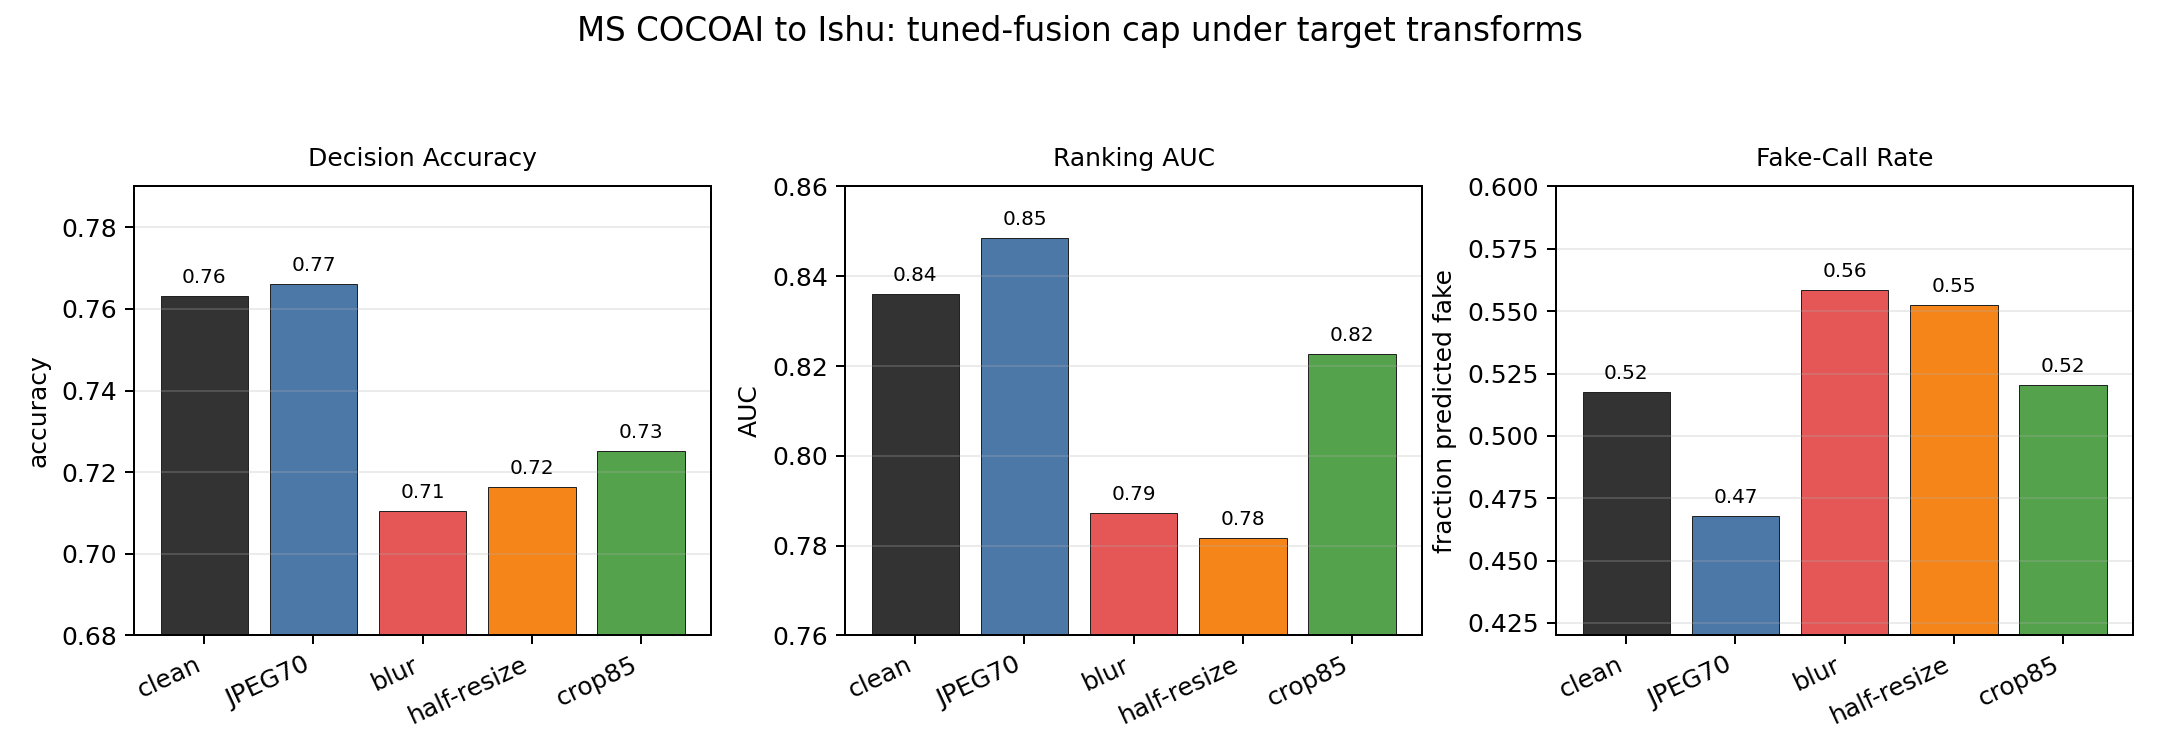
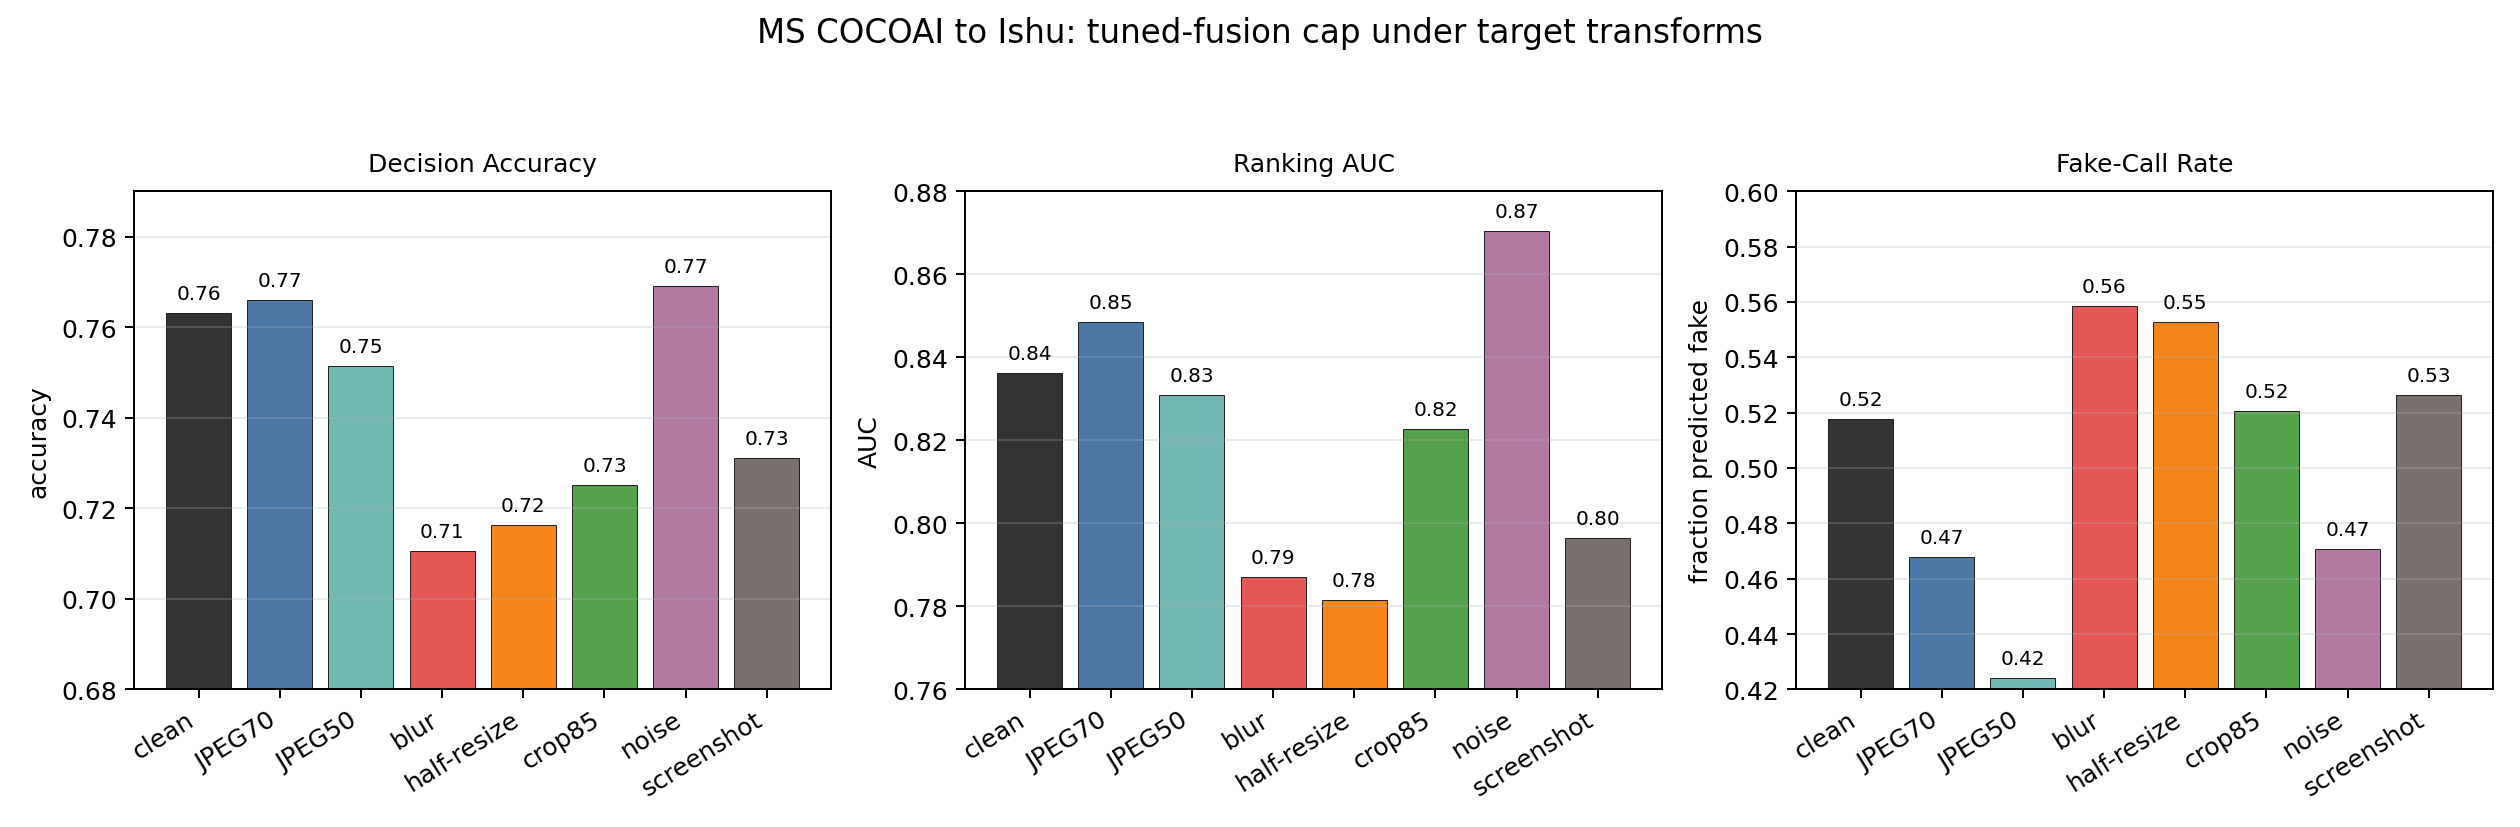
Add harder reverse tuned fusion robustness variants

Changed region(s): [[0.0, 0.1825, 0.9926, 0.9735], [0.2481, 0.0, 0.7444, 0.0608], [0.0, 0.2738, 0.062, 0.3347]]

diff --git a/src/forensic_compare/transforms.py b/src/forensic_compare/transforms.py
@@ -1,10 +1,20 @@
 from __future__ import annotations
 
+import hashlib
 from io import BytesIO
 
+import numpy as np
 from PIL import Image, ImageFilter
 
-ROBUSTNESS_VARIANTS = ("jpeg70", "blur1", "resize_half", "crop85")
+ROBUSTNESS_VARIANTS = (
+    "jpeg70",
+    "jpeg50",
+    "blur1",
+    "resize_half",
+    "crop85",
+    "noise3",
+    "screenshot",
+)
 
 
 def jpeg_roundtrip(image: Image.Image, quality: int) -> Image.Image:
@@ -31,14 +41,36 @@ def resize_half_roundtrip(image: Image.Image) -> Image.Image:
     return down.resize((width, height), Image.Resampling.BICUBIC)
 
 
+def deterministic_gaussian_noise(image: Image.Image, sigma: float) -> Image.Image:
+    seed = int.from_bytes(hashlib.blake2b(image.tobytes(), digest_size=8).digest(), "little")
+    rng = np.random.default_rng(seed)
+    array = np.asarray(image).astype(np.float32)
+    noisy = array + rng.normal(loc=0.0, scale=sigma, size=array.shape)
+    return Image.fromarray(np.clip(noisy, 0, 255).astype(np.uint8), mode="RGB")
+
+
+def screenshot_roundtrip(image: Image.Image) -> Image.Image:
+    width, height = image.size
+    down_size = (max(1, int(round(width * 0.75))), max(1, int(round(height * 0.75))))
+    down = image.resize(down_size, Image.Resampling.BILINEAR)
+    restored = down.resize((width, height), Image.Resampling.BILINEAR)
+    return jpeg_roundtrip(restored, quality=85)
+
+
 def apply_robustness_variant(image: Image.Image, variant: str) -> Image.Image:
     image = image.convert("RGB")
     if variant == "jpeg70":
         return jpeg_roundtrip(image, quality=70)
+    if variant == "jpeg50":
+        return jpeg_roundtrip(image, quality=50)
     if variant == "blur1":
         return image.filter(ImageFilter.GaussianBlur(radius=1.0))
     if variant == "resize_half":
         return resize_half_roundtrip(image)
     if variant == "crop85":
         return center_crop_resize(image, fraction=0.85)
+    if variant == "noise3":
+        return deterministic_gaussian_noise(image, sigma=3.0)
+    if variant == "screenshot":
+        return screenshot_roundtrip(image)
     raise ValueError(f"Unsupported variant: {variant}")

diff --git a/scripts/build_publication_assets.py b/scripts/build_publication_assets.py
@@ -122,20 +122,35 @@ REVERSE_OPERATING_COLORS = {
     "score_fusion_all6_temp_balanced": "#9E9E9E",
     "score_fusion_all6_c003_source_acc": "#E45756",
 }
-TRANSFORM_ROBUSTNESS_ORDER = ["clean", "jpeg70", "blur1", "resize_half", "crop85"]
+TRANSFORM_ROBUSTNESS_ORDER = [
+    "clean",
+    "jpeg70",
+    "jpeg50",
+    "blur1",
+    "resize_half",
+    "crop85",
+    "noise3",
+    "screenshot",
+]
 TRANSFORM_ROBUSTNESS_LABELS = {
     "clean": "clean",
     "jpeg70": "JPEG70",
+    "jpeg50": "JPEG50",
     "blur1": "blur",
     "resize_half": "half-resize",
     "crop85": "crop85",
+    "noise3": "noise",
+    "screenshot": "screenshot",
 }
 TRANSFORM_ROBUSTNESS_COLORS = {
     "clean": "#333333",
     "jpeg70": "#4C78A8",
+    "jpeg50": "#72B7B2",
     "blur1": "#E45756",
     "resize_half": "#F58518",
     "crop85": "#54A24B",
+    "noise3": "#B279A2",
+    "screenshot": "#79706E",
 }
 
 
@@ -224,9 +239,12 @@ def parse_args() -> argparse.Namespace:
         nargs="*",
         default=[
             "reports/assets/ms_cocoai_to_ishu_tuned_fusion_jpeg70_robustness_summary.csv",
+            "reports/assets/ms_cocoai_to_ishu_tuned_fusion_jpeg50_robustness_summary.csv",
             "reports/assets/ms_cocoai_to_ishu_tuned_fusion_blur1_robustness_summary.csv",
             "reports/assets/ms_cocoai_to_ishu_tuned_fusion_resize_half_robustness_summary.csv",
             "reports/assets/ms_cocoai_to_ishu_tuned_fusion_crop85_robustness_summary.csv",
+            "reports/assets/ms_cocoai_to_ishu_tuned_fusion_noise3_robustness_summary.csv",
+            "reports/assets/ms_cocoai_to_ishu_tuned_fusion_screenshot_robustness_summary.csv",
         ],
     )
     parser.add_argument("--out-dir", default="reports/assets")
@@ -938,10 +956,10 @@ def build_reverse_transform_robustness(
     labels = [TRANSFORM_ROBUSTNESS_LABELS.get(variant, variant) for variant in frame["variant"]]
     colors = [TRANSFORM_ROBUSTNESS_COLORS.get(variant, "#777777") for variant in frame["variant"]]
     x = np.arange(len(frame))
-    fig, axes = plt.subplots(1, 3, figsize=(12.0, 4.2), dpi=dpi)
+    fig, axes = plt.subplots(1, 3, figsize=(14.0, 4.6), dpi=dpi)
     for ax, column, title, ylabel, ylim in [
         (axes[0], "accuracy", "Decision Accuracy", "accuracy", (0.68, 0.79)),
-        (axes[1], "auc", "Ranking AUC", "AUC", (0.76, 0.86)),
+        (axes[1], "auc", "Ranking AUC", "AUC", (0.76, 0.88)),
         (axes[2], "predicted_fake_rate", "Fake-Call Rate", "fraction predicted fake", (0.42, 0.60)),
     ]:
         values = frame[column].astype(float)
@@ -949,7 +967,7 @@ def build_reverse_transform_robustness(
         ax.set_title(title, fontsize=10, pad=8)
         ax.set_ylabel(ylabel)
         ax.set_xticks(x)
-        ax.set_xticklabels(labels, rotation=25, ha="right")
+        ax.set_xticklabels(labels, rotation=32, ha="right")
         ax.set_ylim(*ylim)
         ax.grid(axis="y", alpha=0.25)
         _annotate_bars(ax, values, offset=(ylim[1] - ylim[0]) * 0.02)

diff --git a/scripts/build_claim_evidence_matrix.py b/scripts/build_claim_evidence_matrix.py
@@ -40,6 +40,9 @@ CLAIMS = [
             "ms_to_ishu_tuned_fusion_blur1",
             "ms_to_ishu_tuned_fusion_resize_half",
             "ms_to_ishu_tuned_fusion_crop85",
+            "ms_to_ishu_tuned_fusion_jpeg50",
+            "ms_to_ishu_tuned_fusion_noise3",
+            "ms_to_ishu_tuned_fusion_screenshot",
         ],
         "primary_artifact": "reports/assets/publication_core_results.md",
         "risk_or_caveat": "Do not frame this as state of the art; frame it as a source-heldout diagnostic benchmark.",
@@ -107,12 +110,16 @@ CLAIMS = [
             "ms_to_ishu_tuned_fusion_blur1",
             "ms_to_ishu_tuned_fusion_resize_half",
             "ms_to_ishu_tuned_fusion_crop85",
+            "ms_to_ishu_tuned_fusion_jpeg50",
+            "ms_to_ishu_tuned_fusion_noise3",
+            "ms_to_ishu_tuned_fusion_screenshot",
         ],
         "primary_artifact": "reports/assets/publication_reverse_fusion_tradeoff.png",
         "risk_or_caveat": "Current score fusion can suppress the best branch and can inherit source-threshold bias.",
         "next_action": (
             "The source fake-rate constraint sweep improves target accuracy and fake-call bias; "
-            "JPEG70 and crop are relatively stable, while blur and half-resolution resize expose the next robustness gap."
+            "JPEG70, JPEG50, noise, and crop are relatively stable, while blur, resize, and screenshot-style "
+            "roundtrips expose the next robustness gap."
         ),
     },
     {
@@ -135,11 +142,15 @@ CLAIMS = [
             "ms_to_ishu_tuned_fusion_blur1",
             "ms_to_ishu_tuned_fusion_resize_half",
             "ms_to_ishu_tuned_fusion_crop85",
+            "ms_to_ishu_tuned_fusion_jpeg50",
+            "ms_to_ishu_tuned_fusion_noise3",
+            "ms_to_ishu_tuned_fusion_screenshot",
         ],
         "primary_artifact": "reports/assets/publication_reverse_operating_points.png",
         "risk_or_caveat": "The capped source-threshold result is an operating point, not a learned general solution.",
         "next_action": (
-            "Add JPEG50, screenshot/noise, and native-resolution tile checks before calling the cap frontier contest-ready."
+            "Add native-resolution tiling, stronger social-media crops, and larger source splits before calling "
+            "the cap frontier contest-ready."
         ),
     },
     {

diff --git a/tests/test_photometric.py b/tests/test_photometric.py
@@ -85,6 +85,18 @@ def test_shared_robustness_variants_match_script_wrapper() -> None:
         assert shared.mode == wrapped.mode == "RGB"
 
 
+def test_noise_robustness_variant_is_deterministic() -> None:
+    image = Image.fromarray(
+        np.random.default_rng(6).integers(0, 255, size=(32, 32, 3), dtype=np.uint8)
+    )
+
+    first = np.asarray(apply_robustness_variant(image, "noise3"))
+    second = np.asarray(apply_robustness_variant(image, "noise3"))
+
+    assert np.array_equal(first, second)
+    assert not np.array_equal(first, np.asarray(image.convert("RGB")))
+
+
 def test_feature_extraction_can_augment_training_rows(tmp_path: Path) -> None:
     image = np.random.default_rng(4).integers(0, 255, size=(32, 32, 3), dtype=np.uint8)
     path = tmp_path / "image.png"

diff --git a/scripts/build_publication_tables.py b/scripts/build_publication_tables.py
@@ -131,6 +131,9 @@ def parse_args() -> argparse.Namespace:
             "reports/assets/ms_cocoai_to_ishu_tuned_fusion_blur1_robustness_summary.csv",
             "reports/assets/ms_cocoai_to_ishu_tuned_fusion_resize_half_robustness_summary.csv",
             "reports/assets/ms_cocoai_to_ishu_tuned_fusion_crop85_robustness_summary.csv",
+            "reports/assets/ms_cocoai_to_ishu_tuned_fusion_jpeg50_robustness_summary.csv",
+            "reports/assets/ms_cocoai_to_ishu_tuned_fusion_noise3_robustness_summary.csv",
+            "reports/assets/ms_cocoai_to_ishu_tuned_fusion_screenshot_robustness_summary.csv",
         ],
         help="Additional tuned-fusion target-transform robustness summary CSVs.",
     )

diff --git a/tests/test_claim_evidence_matrix.py b/tests/test_claim_evidence_matrix.py
@@ -39,6 +39,9 @@ def test_claim_evidence_matrix_validates_and_writes_artifacts(tmp_path: Path) ->
         "ms_to_ishu_tuned_fusion_blur1",
         "ms_to_ishu_tuned_fusion_resize_half",
         "ms_to_ishu_tuned_fusion_crop85",
+        "ms_to_ishu_tuned_fusion_jpeg50",
+        "ms_to_ishu_tuned_fusion_noise3",
+        "ms_to_ishu_tuned_fusion_screenshot",
     ]
     pd.DataFrame(
         {

diff --git a/reports/ms_cocoai_to_ishu_tuned_fusion_jpeg50_robustness_2026_06_13.md b/reports/ms_cocoai_to_ishu_tuned_fusion_jpeg50_robustness_2026_06_13.md
@@ -1,0 +1,31 @@
+# MS COCOAI to Ishu Tuned-Fusion jpeg50 Robustness
+
+This evaluates the already-selected reverse tuned-fusion operating point on `jpeg50`-transformed Ishu target splits. The fusion configuration and source threshold are selected from clean MS source scores only; `jpeg50` labels are used only for final evaluation.
+
+## Robustness Summary
+
+| variant | variant_policy | n_seeds | target_accuracy_mean | target_roc_auc_mean | target_brier_score_mean | target_expected_calibration_error_mean | target_predicted_positive_rate_mean | source_predicted_positive_rate_mean |
+| --- | --- | --- | --- | --- | --- | --- | --- | --- |
+| jpeg50 | cap_0p4 | 3 | 0.7515 | 0.8309 | 0.2486 | 0.2517 | 0.4240 | 0.4000 |
+
+## Per-Seed Detail
+
+| variant | seed | fusion_c | dropout_config | threshold | target_accuracy | target_roc_auc | target_predicted_positive_rate |
+| --- | --- | --- | --- | --- | --- | --- | --- |
+| jpeg50 | 7 | 0.3000 | mean0p35x8 | 0.9862 | 0.7544 | 0.8424 | 0.4561 |
+| jpeg50 | 17 | 0.0300 | mean0p35x8 | 0.9541 | 0.7193 | 0.7950 | 0.4386 |
+| jpeg50 | 29 | 0.3000 | none | 0.9397 | 0.7807 | 0.8553 | 0.3772 |
+
+## Clean Comparator
+
+The clean `cap_0p4` tuned-fusion result was 0.7632 accuracy / 0.8361 AUC with a 0.5175 target fake-call rate.
+Under `jpeg50`, the same source-selected policy reaches 0.7515 accuracy / 0.8309 AUC with a 0.4240 target fake-call rate.
+This is a bounded robustness check for the tuned-fusion cap frontier. Interpret it together with the clean-target result and the other transformed target variants before treating the 0.40 cap as robust rather than clean-target optimized.
+
+## Rebuild
+
+Prerequisite branch prediction folders are expected under `runs\ms_cocoai_to_ishu_jpeg50_robustness/seed*/`. They are produced by evaluating the saved MS-trained `combined_v3`, ResNet-18, physics-guided, ConvNeXt, CLIP, and DINOv2 branches on the seed-specific Ishu `jpeg50` folders.
+
+```powershell
+.\.venv\Scripts\python.exe scripts\evaluate_reverse_tuned_fusion_robustness.py --variant jpeg50
+```

diff --git a/reports/ms_cocoai_to_ishu_tuned_fusion_noise3_robustness_2026_06_13.md b/reports/ms_cocoai_to_ishu_tuned_fusion_noise3_robustness_2026_06_13.md
@@ -1,0 +1,31 @@
+# MS COCOAI to Ishu Tuned-Fusion noise3 Robustness
+
+This evaluates the already-selected reverse tuned-fusion operating point on `noise3`-transformed Ishu target splits. The fusion configuration and source threshold are selected from clean MS source scores only; `noise3` labels are used only for final evaluation.
+
+## Robustness Summary
+
+| variant | variant_policy | n_seeds | target_accuracy_mean | target_roc_auc_mean | target_brier_score_mean | target_expected_calibration_error_mean | target_predicted_positive_rate_mean | source_predicted_positive_rate_mean |
+| --- | --- | --- | --- | --- | --- | --- | --- | --- |
+| noise3 | cap_0p4 | 3 | 0.7690 | 0.8704 | 0.2281 | 0.2412 | 0.4708 | 0.4000 |
+
+## Per-Seed Detail
+
+| variant | seed | fusion_c | dropout_config | threshold | target_accuracy | target_roc_auc | target_predicted_positive_rate |
+| --- | --- | --- | --- | --- | --- | --- | --- |
+| noise3 | 7 | 0.3000 | mean0p35x8 | 0.9862 | 0.7632 | 0.8845 | 0.5175 |
+| noise3 | 17 | 0.0300 | mean0p35x8 | 0.9541 | 0.7281 | 0.8279 | 0.4825 |
+| noise3 | 29 | 0.3000 | none | 0.9397 | 0.8158 | 0.8987 | 0.4123 |
+
+## Clean Comparator
+
+The clean `cap_0p4` tuned-fusion result was 0.7632 accuracy / 0.8361 AUC with a 0.5175 target fake-call rate.
+Under `noise3`, the same source-selected policy reaches 0.7690 accuracy / 0.8704 AUC with a 0.4708 target fake-call rate.
+This is a bounded robustness check for the tuned-fusion cap frontier. Interpret it together with the clean-target result and the other transformed target variants before treating the 0.40 cap as robust rather than clean-target optimized.
+
+## Rebuild
+
+Prerequisite branch prediction folders are expected under `runs\ms_cocoai_to_ishu_noise3_robustness/seed*/`. They are produced by evaluating the saved MS-trained `combined_v3`, ResNet-18, physics-guided, ConvNeXt, CLIP, and DINOv2 branches on the seed-specific Ishu `noise3` folders.
+
+```powershell
+.\.venv\Scripts\python.exe scripts\evaluate_reverse_tuned_fusion_robustness.py --variant noise3
+```

diff --git a/reports/ms_cocoai_to_ishu_tuned_fusion_screenshot_robustness_2026_06_13.md b/reports/ms_cocoai_to_ishu_tuned_fusion_screenshot_robustness_2026_06_13.md
@@ -1,0 +1,31 @@
+# MS COCOAI to Ishu Tuned-Fusion screenshot Robustness
+
+This evaluates the already-selected reverse tuned-fusion operating point on `screenshot`-transformed Ishu target splits. The fusion configuration and source threshold are selected from clean MS source scores only; `screenshot` labels are used only for final evaluation.
+
+## Robustness Summary
+
+| variant | variant_policy | n_seeds | target_accuracy_mean | target_roc_auc_mean | target_brier_score_mean | target_expected_calibration_error_mean | target_predicted_positive_rate_mean | source_predicted_positive_rate_mean |
+| --- | --- | --- | --- | --- | --- | --- | --- | --- |
+| screenshot | cap_0p4 | 3 | 0.7310 | 0.7965 | 0.3188 | 0.3392 | 0.5263 | 0.4000 |
+
+## Per-Seed Detail
+
+| variant | seed | fusion_c | dropout_config | threshold | target_accuracy | target_roc_auc | target_predicted_positive_rate |
+| --- | --- | --- | --- | --- | --- | --- | --- |
+| screenshot | 7 | 0.3000 | mean0p35x8 | 0.9862 | 0.7281 | 0.8023 | 0.5526 |
+| screenshot | 17 | 0.0300 | mean0p35x8 | 0.9541 | 0.7018 | 0.7445 | 0.5263 |
+| screenshot | 29 | 0.3000 | none | 0.9397 | 0.7632 | 0.8427 | 0.5000 |
+
+## Clean Comparator
+
+The clean `cap_0p4` tuned-fusion result was 0.7632 accuracy / 0.8361 AUC with a 0.5175 target fake-call rate.
+Under `screenshot`, the same source-selected policy reaches 0.7310 accuracy / 0.7965 AUC with a 0.5263 target fake-call rate.
+This is a bounded robustness check for the tuned-fusion cap frontier. Interpret it together with the clean-target result and the other transformed target variants before treating the 0.40 cap as robust rather than clean-target optimized.
+
+## Rebuild
+
+Prerequisite branch prediction folders are expected under `runs\ms_cocoai_to_ishu_screenshot_robustness/seed*/`. They are produced by evaluating the saved MS-trained `combined_v3`, ResNet-18, physics-guided, ConvNeXt, CLIP, and DINOv2 branches on the seed-specific Ishu `screenshot` folders.
+
+```powershell
+.\.venv\Scripts\python.exe scripts\evaluate_reverse_tuned_fusion_robustness.py --variant screenshot
+```

diff --git a/reports/submission_readiness_2026_06_13.md b/reports/submission_readiness_2026_06_13.md
@@ -36,9 +36,12 @@ Core numbers to lead with:
 | source-heldout tuned fusion on MS COCOAI -> Ishu | 0.7339 accuracy / 0.8341 AUC / 0.2748 Brier | first training-side constrained utility win |
 | tuned fusion cap sweep on MS COCOAI -> Ishu | 0.7632 accuracy / 0.8361 AUC / 0.5175 fake-call rate | best reverse SCP-Fusion operating point so far |
 | tuned fusion cap_0p4 under JPEG70 | 0.7661 accuracy / 0.8485 AUC / 0.4678 fake-call rate | first robustness check for the reverse cap frontier |
+| tuned fusion cap_0p4 under JPEG50 | 0.7515 accuracy / 0.8309 AUC / 0.4240 fake-call rate | stronger recompression only mildly degrades the clean cap frontier |
 | tuned fusion cap_0p4 under blur1 | 0.7105 accuracy / 0.7872 AUC / 0.5585 fake-call rate | blur is the clearest current transform weakness |
 | tuned fusion cap_0p4 under resize_half | 0.7164 accuracy / 0.7816 AUC / 0.5526 fake-call rate | half-resolution resize similarly hurts ranking and calibration |
 | tuned fusion cap_0p4 under crop85 | 0.7251 accuracy / 0.8227 AUC / 0.5205 fake-call rate | crop is weaker than clean but less damaging than blur/resize |
+| tuned fusion cap_0p4 under noise3 | 0.7690 accuracy / 0.8704 AUC / 0.4708 fake-call rate | small sensor-like noise is not a current weakness |
+| tuned fusion cap_0p4 under screenshot | 0.7310 accuracy / 0.7965 AUC / 0.5263 fake-call rate | screenshot-style resize plus recompression is a realistic stressor |
 | physics-guided ResNet on MS COCOAI -> Ishu | 0.6871 default accuracy / 0.6813 source-threshold accuracy | best default-threshold single-model operating point and ECE anchor |
 | CLIP source-heldout triage, strict 5% budget | 0.4747 coverage / 0.9261 decided-case accuracy | best current forensic triage operating point |
 | DINOv2-enhanced source-calibrated fusion | 0.6127 accuracy / 0.3062 Brier / 0.2938 ECE | best calibrated fusion-family operating point before CLIP |
@@ -108,7 +111,7 @@ The results show that ranking, probability calibration, and binary decision qual
 
 Priority order:
 
-1. Extend tuned-fusion robustness to harder in-the-wild perturbations. JPEG70 and crop85 are comparatively stable, but blur1 and resize_half expose a real transform weakness; the next gap is JPEG50, screenshot/noise, native-resolution tiling, or a larger source split before calling the 0.40 reverse frontier contest-ready.
+1. Extend tuned-fusion robustness to native-resolution and stronger in-the-wild perturbations. JPEG70, JPEG50, noise3, and crop85 are comparatively stable, but blur1, resize_half, and screenshot-style roundtrips expose real transform weaknesses; the next gap is native-resolution tiling, stronger social-media crops/recompression, or a larger source split before calling the 0.40 reverse frontier contest-ready.
 2. Run `combined_v4` full repeated-seed transfer and decide whether it belongs in the main method or stays an ablation.
 3. Add another qualitative grid from a second seed or reverse transfer.
 4. Convert the DFRWS poster draft into a one-page visual artifact after the next experiment.
@@ -118,7 +121,7 @@ Priority order:
 The best next technical experiment is **source-heldout utility-aware reverse fusion**:
 
 - use the checked-in `--threshold-strategy source_utility` implementation and the model-selection selector as fixed operating-point evaluators;
-- extend the 0.40 source-cap tuned fusion robustness check from basic blur/resize/crop/JPEG70 to JPEG50, screenshot/noise, native-resolution tiling, or a larger source split;
+- extend the 0.40 source-cap tuned fusion robustness check from JPEG/blur/resize/crop/noise/screenshot to native-resolution tiling, stronger social-media crops, or a larger source split;
 - combine the branch-dropout AUC gain with the strong-regularization Brier/ECE gain;
 - preserve the current reverse suite as the fixed comparison table.
 

diff --git a/reports/assets/claim_evidence_matrix.md b/reports/assets/claim_evidence_matrix.md
@@ -4,10 +4,10 @@ Generated by `scripts/build_claim_evidence_matrix.py` from `reports/assets/publi
 
 | claim_id | claim | submission_use | status | evidence_finding_ids | evidence_summary | primary_artifact | risk_or_caveat | next_action |
 | --- | --- | --- | --- | --- | --- | --- | --- | --- |
-| source_shift_splits_metrics | Same-domain detector performance is not enough for AI-image forensics; ranking, calibration, and default decisions diverge under source shift. | DFRWS poster lead; WIFS/DFF introduction and first results table. | ready | ishu_same_combined_v3,ishu_same_resnet18,ishu_to_ms_resnet18,ishu_to_ms_scp_fusion_v0,ms_to_ishu_branch_dropout_auc,ms_to_ishu_source_cap_accuracy,ms_to_ishu_source_holdout_tuned_fusion,ms_to_ishu_tuned_fusion_constraint_sweep_best,ms_to_ishu_tuned_fusion_jpeg70,ms_to_ishu_tuned_fusion_blur1,ms_to_ishu_tuned_fusion_resize_half,ms_to_ishu_tuned_fusion_crop85 | ishu_same_combined_v3 (combined_v3: acc=0.8246, AUC=0.8942); ishu_same_resnet18 (ResNet-18: acc=0.8246, AUC=0.8927); ishu_to_ms_resnet18 (ResNet-18: acc=0.5800, AUC=0.6488, Brier=0.3549, ECE=0.3353, fake-rate=0.2453); ishu_to_ms_scp_fusion_v0 (SCP-Fusion v0: acc=0.5910, AUC=0.7282, Brier=0.3190, ECE=0.3087, fake-rate=0.1383); ms_to_ishu_branch_dropout_auc (Reverse all-branch dropout fusion: acc=0.6520, AUC=0.8406, Brier=0.3057, ECE=0.3275, fake-rate=0.8158); ms_to_ishu_source_cap_accuracy (Reverse source-threshold capped fusion: acc=0.7222, AUC=0.8291, Brier=0.2188, ECE=0.2060, fake-rate=0.6228); ms_to_ishu_source_holdout_tuned_fusion (Reverse source-heldout tuned fusion: acc=0.7339, AUC=0.8341, Brier=0.2748, ECE=0.2954, fake-rate=0.6813); ms_to_ishu_tuned_fusion_constraint_sweep_best (Reverse tuned-fusion constraint sweep best: acc=0.7632, AUC=0.8361, Brier=0.2851, ECE=0.3042, fake-rate=0.5175); ms_to_ishu_tuned_fusion_jpeg70 (Reverse tuned-fusion JPEG70 robustness: acc=0.7661, AUC=0.8485, Brier=0.2599, ECE=0.2635, fake-rate=0.4678); ms_to_ishu_tuned_fusion_blur1 (Reverse tuned-fusion target-transform robustness (blur1): acc=0.7105, AUC=0.7872, Brier=0.3280, ECE=0.3450, fake-rate=0.5585); ms_to_ishu_tuned_fusion_resize_half (Reverse tuned-fusion target-transform robustness (resize_half): acc=0.7164, AUC=0.7816, Brier=0.3249, ECE=0.3410, fake-rate=0.5526); ms_to_ishu_tuned_fusion_crop85 (Reverse tuned-fusion target-transform robustness (crop85): acc=0.7251, AUC=0.8227, Brier=0.2952, ECE=0.3187, fake-rate=0.5205) | reports/assets/publication_core_results.md | Do not frame this as state of the art; frame it as a source-heldout diagnostic benchmark. | Keep source-heldout tables in the main paper and use same-domain results only as context. |
+| source_shift_splits_metrics | Same-domain detector performance is not enough for AI-image forensics; ranking, calibration, and default decisions diverge under source shift. | DFRWS poster lead; WIFS/DFF introduction and first results table. | ready | ishu_same_combined_v3,ishu_same_resnet18,ishu_to_ms_resnet18,ishu_to_ms_scp_fusion_v0,ms_to_ishu_branch_dropout_auc,ms_to_ishu_source_cap_accuracy,ms_to_ishu_source_holdout_tuned_fusion,ms_to_ishu_tuned_fusion_constraint_sweep_best,ms_to_ishu_tuned_fusion_jpeg70,ms_to_ishu_tuned_fusion_blur1,ms_to_ishu_tuned_fusion_resize_half,ms_to_ishu_tuned_fusion_crop85,ms_to_ishu_tuned_fusion_jpeg50,ms_to_ishu_tuned_fusion_noise3,ms_to_ishu_tuned_fusion_screenshot | ishu_same_combined_v3 (combined_v3: acc=0.8246, AUC=0.8942); ishu_same_resnet18 (ResNet-18: acc=0.8246, AUC=0.8927); ishu_to_ms_resnet18 (ResNet-18: acc=0.5800, AUC=0.6488, Brier=0.3549, ECE=0.3353, fake-rate=0.2453); ishu_to_ms_scp_fusion_v0 (SCP-Fusion v0: acc=0.5910, AUC=0.7282, Brier=0.3190, ECE=0.3087, fake-rate=0.1383); ms_to_ishu_branch_dropout_auc (Reverse all-branch dropout fusion: acc=0.6520, AUC=0.8406, Brier=0.3057, ECE=0.3275, fake-rate=0.8158); ms_to_ishu_source_cap_accuracy (Reverse source-threshold capped fusion: acc=0.7222, AUC=0.8291, Brier=0.2188, ECE=0.2060, fake-rate=0.6228); ms_to_ishu_source_holdout_tuned_fusion (Reverse source-heldout tuned fusion: acc=0.7339, AUC=0.8341, Brier=0.2748, ECE=0.2954, fake-rate=0.6813); ms_to_ishu_tuned_fusion_constraint_sweep_best (Reverse tuned-fusion constraint sweep best: acc=0.7632, AUC=0.8361, Brier=0.2851, ECE=0.3042, fake-rate=0.5175); ms_to_ishu_tuned_fusion_jpeg70 (Reverse tuned-fusion JPEG70 robustness: acc=0.7661, AUC=0.8485, Brier=0.2599, ECE=0.2635, fake-rate=0.4678); ms_to_ishu_tuned_fusion_blur1 (Reverse tuned-fusion target-transform robustness (blur1): acc=0.7105, AUC=0.7872, Brier=0.3280, ECE=0.3450, fake-rate=0.5585); ms_to_ishu_tuned_fusion_resize_half (Reverse tuned-fusion target-transform robustness (resize_half): acc=0.7164, AUC=0.7816, Brier=0.3249, ECE=0.3410, fake-rate=0.5526); ms_to_ishu_tuned_fusion_crop85 (Reverse tuned-fusion target-transform robustness (crop85): acc=0.7251, AUC=0.8227, Brier=0.2952, ECE=0.3187, fake-rate=0.5205); ms_to_ishu_tuned_fusion_jpeg50 (Reverse tuned-fusion target-transform robustness (jpeg50): acc=0.7515, AUC=0.8309, Brier=0.2486, ECE=0.2517, fake-rate=0.4240); ms_to_ishu_tuned_fusion_noise3 (Reverse tuned-fusion target-transform robustness (noise3): acc=0.7690, AUC=0.8704, Brier=0.2281, ECE=0.2412, fake-rate=0.4708); ms_to_ishu_tuned_fusion_screenshot (Reverse tuned-fusion target-transform robustness (screenshot): acc=0.7310, AUC=0.7965, Brier=0.3188, ECE=0.3392, fake-rate=0.5263) | reports/assets/publication_core_results.md | Do not frame this as state of the art; frame it as a source-heldout diagnostic benchmark. | Keep source-heldout tables in the main paper and use same-domain results only as context. |
 | physics_guided_branch_helps | Physics-guided ResNet fusion improves over vanilla ResNet and combined_v3 on Ishu same-domain and gives a useful reverse-transfer calibration anchor. | DFRWS methods/results; WIFS/DFF ablation and interpretability section. | ready_with_caveat | ishu_same_combined_v3,ishu_same_resnet18,ishu_same_physics_guided,ishu_to_ms_resnet18,ishu_to_ms_physics_guided,ms_to_ishu_physics_guided | ishu_same_combined_v3 (combined_v3: acc=0.8246, AUC=0.8942); ishu_same_resnet18 (ResNet-18: acc=0.8246, AUC=0.8927); ishu_same_physics_guided (Physics-guided ResNet-18 + combined_v3: acc=0.8450, AUC=0.9177); ishu_to_ms_resnet18 (ResNet-18: acc=0.5800, AUC=0.6488, Brier=0.3549, ECE=0.3353, fake-rate=0.2453); ishu_to_ms_physics_guided (Physics-guided ResNet-18 + combined_v3: acc=0.6060, AUC=0.6637, Brier=0.3367, ECE=0.3094, fake-rate=0.2707); ms_to_ishu_physics_guided (Physics-guided ResNet-18 + combined_v3: acc=0.6871, AUC=0.7420, Brier=0.2436, ECE=0.1902, fake-rate=0.5292) | reports/physics_guided_vs_resnet_2026_06_12.md | This is a single-image physical/signal proxy, not true multi-light photometric stereo; vanilla ResNet still wins some in-domain MS COCOAI checks. | Keep the claim comparative and avoid implying a universal neural upgrade. |
 | clip_transfer_frontier | Frozen CLIP ViT-B/32 is the strongest standalone transfer-ranking and high-confidence triage branch in the current benchmark. | DFRWS headline result; DFF foundation-baseline result; WIFS compact comparison. | ready | ishu_to_ms_clip_standalone,ishu_to_ms_triage5_clip_standalone,ms_to_ishu_clip_vit_b_32 | ishu_to_ms_clip_standalone (Frozen CLIP ViT-B/32: acc=0.6363, AUC=0.8641, Brier=0.3146, ECE=0.3326, fake-rate=0.1630); ishu_to_ms_triage5_clip_standalone (Frozen CLIP ViT-B/32: coverage=0.4747, decided-acc=0.9261); ms_to_ishu_clip_vit_b_32 (Frozen CLIP ViT-B/32: acc=0.6228, AUC=0.8243, Brier=0.3317, ECE=0.3566, fake-rate=0.8626) | reports/assets/publication_score_fusion_clip_frontier.png | CLIP has strong ranking but reverse-transfer default thresholds still over-call generated images. | Use CLIP as the foundation baseline to beat; do not bury it inside fusion-only comparisons. |
-| scp_fusion_is_diagnostic | SCP-Fusion is currently most defensible as a diagnostic fusion protocol: it combines physical, neural, and foundation signals, but score-level fusion does not always beat the best standalone branch. | DFF method framing; WIFS cautionary fusion result; DFRWS reproducibility panel. | ready_with_caveat | ishu_to_ms_scp_fusion_v0,ishu_to_ms_scp_fusion_all_foundation,ishu_to_ms_clip_standalone,ms_to_ishu_score_fusion_all6_temp_balanced,ms_to_ishu_branch_dropout_auc,ms_to_ishu_source_utility_unconstrained,ms_to_ishu_source_holdout_mean_utility_unconstrained,ms_to_ishu_source_holdout_tuned_fusion,ms_to_ishu_tuned_fusion_constraint_sweep_best,ms_to_ishu_tuned_fusion_jpeg70,ms_to_ishu_tuned_fusion_blur1,ms_to_ishu_tuned_fusion_resize_half,ms_to_ishu_tuned_fusion_crop85 | ishu_to_ms_scp_fusion_v0 (SCP-Fusion v0: acc=0.5910, AUC=0.7282, Brier=0.3190, ECE=0.3087, fake-rate=0.1383); ishu_to_ms_scp_fusion_all_foundation (SCP-Fusion + CLIP + DINOv2: acc=0.6163, AUC=0.7995, Brier=0.3118, ECE=0.3263, fake-rate=0.1323); ishu_to_ms_clip_standalone (Frozen CLIP ViT-B/32: acc=0.6363, AUC=0.8641, Brier=0.3146, ECE=0.3326, fake-rate=0.1630); ms_to_ishu_score_fusion_all6_temp_balanced (Reverse all-branch fusion + balanced temperature: acc=0.6579, AUC=0.8285, Brier=0.3067, ECE=0.3304, fake-rate=0.8099); ms_to_ishu_branch_dropout_auc (Reverse all-branch dropout fusion: acc=0.6520, AUC=0.8406, Brier=0.3057, ECE=0.3275, fake-rate=0.8158); ms_to_ishu_source_utility_unconstrained (Reverse source-utility model selection: acc=0.6520, AUC=0.8275, Brier=0.2944, ECE=0.3181, fake-rate=0.8216); ms_to_ishu_source_holdout_mean_utility_unconstrained (Reverse source-heldout utility selection: acc=0.6520, AUC=0.8275, Brier=0.2944, ECE=0.3181, fake-rate=0.8216); ms_to_ishu_source_holdout_tuned_fusion (Reverse source-heldout tuned fusion: acc=0.7339, AUC=0.8341, Brier=0.2748, ECE=0.2954, fake-rate=0.6813); ms_to_ishu_tuned_fusion_constraint_sweep_best (Reverse tuned-fusion constraint sweep best: acc=0.7632, AUC=0.8361, Brier=0.2851, ECE=0.3042, fake-rate=0.5175); ms_to_ishu_tuned_fusion_jpeg70 (Reverse tuned-fusion JPEG70 robustness: acc=0.7661, AUC=0.8485, Brier=0.2599, ECE=0.2635, fake-rate=0.4678); ms_to_ishu_tuned_fusion_blur1 (Reverse tuned-fusion target-transform robustness (blur1): acc=0.7105, AUC=0.7872, Brier=0.3280, ECE=0.3450, fake-rate=0.5585); ms_to_ishu_tuned_fusion_resize_half (Reverse tuned-fusion target-transform robustness (resize_half): acc=0.7164, AUC=0.7816, Brier=0.3249, ECE=0.3410, fake-rate=0.5526); ms_to_ishu_tuned_fusion_crop85 (Reverse tuned-fusion target-transform robustness (crop85): acc=0.7251, AUC=0.8227, Brier=0.2952, ECE=0.3187, fake-rate=0.5205) | reports/assets/publication_reverse_fusion_tradeoff.png | Current score fusion can suppress the best branch and can inherit source-threshold bias. | The source fake-rate constraint sweep improves target accuracy and fake-call bias; JPEG70 and crop are relatively stable, while blur and half-resolution resize expose the next robustness gap. |
-| source_thresholding_improves_decisions | Source-aware operating-point selection can turn strong but biased reverse-transfer ranking into better binary decisions. | DFRWS operational triage panel; WIFS/DFF calibration and utility section. | ready_with_caveat | ms_to_ishu_branch_dropout_auc,ms_to_ishu_score_fusion_all6_temp_balanced,ms_to_ishu_source_cap_accuracy,ms_to_ishu_source_utility_cap_0p48,ms_to_ishu_source_holdout_mean_utility_cap_0p48,ms_to_ishu_source_holdout_tuned_fusion,ms_to_ishu_tuned_fusion_constraint_sweep_best,ms_to_ishu_tuned_fusion_jpeg70,ms_to_ishu_tuned_fusion_blur1,ms_to_ishu_tuned_fusion_resize_half,ms_to_ishu_tuned_fusion_crop85 | ms_to_ishu_branch_dropout_auc (Reverse all-branch dropout fusion: acc=0.6520, AUC=0.8406, Brier=0.3057, ECE=0.3275, fake-rate=0.8158); ms_to_ishu_score_fusion_all6_temp_balanced (Reverse all-branch fusion + balanced temperature: acc=0.6579, AUC=0.8285, Brier=0.3067, ECE=0.3304, fake-rate=0.8099); ms_to_ishu_source_cap_accuracy (Reverse source-threshold capped fusion: acc=0.7222, AUC=0.8291, Brier=0.2188, ECE=0.2060, fake-rate=0.6228); ms_to_ishu_source_utility_cap_0p48 (Reverse capped source-utility model selection: acc=0.7193, AUC=0.8291, Brier=0.2188, ECE=0.2060, fake-rate=0.6199); ms_to_ishu_source_holdout_mean_utility_cap_0p48 (Reverse capped source-heldout utility selection: acc=0.7193, AUC=0.8291, Brier=0.2188, ECE=0.2060, fake-rate=0.6199); ms_to_ishu_source_holdout_tuned_fusion (Reverse source-heldout tuned fusion: acc=0.7339, AUC=0.8341, Brier=0.2748, ECE=0.2954, fake-rate=0.6813); ms_to_ishu_tuned_fusion_constraint_sweep_best (Reverse tuned-fusion constraint sweep best: acc=0.7632, AUC=0.8361, Brier=0.2851, ECE=0.3042, fake-rate=0.5175); ms_to_ishu_tuned_fusion_jpeg70 (Reverse tuned-fusion JPEG70 robustness: acc=0.7661, AUC=0.8485, Brier=0.2599, ECE=0.2635, fake-rate=0.4678); ms_to_ishu_tuned_fusion_blur1 (Reverse tuned-fusion target-transform robustness (blur1): acc=0.7105, AUC=0.7872, Brier=0.3280, ECE=0.3450, fake-rate=0.5585); ms_to_ishu_tuned_fusion_resize_half (Reverse tuned-fusion target-transform robustness (resize_half): acc=0.7164, AUC=0.7816, Brier=0.3249, ECE=0.3410, fake-rate=0.5526); ms_to_ishu_tuned_fusion_crop85 (Reverse tuned-fusion target-transform robustness (crop85): acc=0.7251, AUC=0.8227, Brier=0.2952, ECE=0.3187, fake-rate=0.5205) | reports/assets/publication_reverse_operating_points.png | The capped source-threshold result is an operating point, not a learned general solution. | Add JPEG50, screenshot/noise, and native-resolution tile checks before calling the cap frontier contest-ready. |
+| scp_fusion_is_diagnostic | SCP-Fusion is currently most defensible as a diagnostic fusion protocol: it combines physical, neural, and foundation signals, but score-level fusion does not always beat the best standalone branch. | DFF method framing; WIFS cautionary fusion result; DFRWS reproducibility panel. | ready_with_caveat | ishu_to_ms_scp_fusion_v0,ishu_to_ms_scp_fusion_all_foundation,ishu_to_ms_clip_standalone,ms_to_ishu_score_fusion_all6_temp_balanced,ms_to_ishu_branch_dropout_auc,ms_to_ishu_source_utility_unconstrained,ms_to_ishu_source_holdout_mean_utility_unconstrained,ms_to_ishu_source_holdout_tuned_fusion,ms_to_ishu_tuned_fusion_constraint_sweep_best,ms_to_ishu_tuned_fusion_jpeg70,ms_to_ishu_tuned_fusion_blur1,ms_to_ishu_tuned_fusion_resize_half,ms_to_ishu_tuned_fusion_crop85,ms_to_ishu_tuned_fusion_jpeg50,ms_to_ishu_tuned_fusion_noise3,ms_to_ishu_tuned_fusion_screenshot | ishu_to_ms_scp_fusion_v0 (SCP-Fusion v0: acc=0.5910, AUC=0.7282, Brier=0.3190, ECE=0.3087, fake-rate=0.1383); ishu_to_ms_scp_fusion_all_foundation (SCP-Fusion + CLIP + DINOv2: acc=0.6163, AUC=0.7995, Brier=0.3118, ECE=0.3263, fake-rate=0.1323); ishu_to_ms_clip_standalone (Frozen CLIP ViT-B/32: acc=0.6363, AUC=0.8641, Brier=0.3146, ECE=0.3326, fake-rate=0.1630); ms_to_ishu_score_fusion_all6_temp_balanced (Reverse all-branch fusion + balanced temperature: acc=0.6579, AUC=0.8285, Brier=0.3067, ECE=0.3304, fake-rate=0.8099); ms_to_ishu_branch_dropout_auc (Reverse all-branch dropout fusion: acc=0.6520, AUC=0.8406, Brier=0.3057, ECE=0.3275, fake-rate=0.8158); ms_to_ishu_source_utility_unconstrained (Reverse source-utility model selection: acc=0.6520, AUC=0.8275, Brier=0.2944, ECE=0.3181, fake-rate=0.8216); ms_to_ishu_source_holdout_mean_utility_unconstrained (Reverse source-heldout utility selection: acc=0.6520, AUC=0.8275, Brier=0.2944, ECE=0.3181, fake-rate=0.8216); ms_to_ishu_source_holdout_tuned_fusion (Reverse source-heldout tuned fusion: acc=0.7339, AUC=0.8341, Brier=0.2748, ECE=0.2954, fake-rate=0.6813); ms_to_ishu_tuned_fusion_constraint_sweep_best (Reverse tuned-fusion constraint sweep best: acc=0.7632, AUC=0.8361, Brier=0.2851, ECE=0.3042, fake-rate=0.5175); ms_to_ishu_tuned_fusion_jpeg70 (Reverse tuned-fusion JPEG70 robustness: acc=0.7661, AUC=0.8485, Brier=0.2599, ECE=0.2635, fake-rate=0.4678); ms_to_ishu_tuned_fusion_blur1 (Reverse tuned-fusion target-transform robustness (blur1): acc=0.7105, AUC=0.7872, Brier=0.3280, ECE=0.3450, fake-rate=0.5585); ms_to_ishu_tuned_fusion_resize_half (Reverse tuned-fusion target-transform robustness (resize_half): acc=0.7164, AUC=0.7816, Brier=0.3249, ECE=0.3410, fake-rate=0.5526); ms_to_ishu_tuned_fusion_crop85 (Reverse tuned-fusion target-transform robustness (crop85): acc=0.7251, AUC=0.8227, Brier=0.2952, ECE=0.3187, fake-rate=0.5205); ms_to_ishu_tuned_fusion_jpeg50 (Reverse tuned-fusion target-transform robustness (jpeg50): acc=0.7515, AUC=0.8309, Brier=0.2486, ECE=0.2517, fake-rate=0.4240); ms_to_ishu_tuned_fusion_noise3 (Reverse tuned-fusion target-transform robustness (noise3): acc=0.7690, AUC=0.8704, Brier=0.2281, ECE=0.2412, fake-rate=0.4708); ms_to_ishu_tuned_fusion_screenshot (Reverse tuned-fusion target-transform robustness (screenshot): acc=0.7310, AUC=0.7965, Brier=0.3188, ECE=0.3392, fake-rate=0.5263) | reports/assets/publication_reverse_fusion_tradeoff.png | Current score fusion can suppress the best branch and can inherit source-threshold bias. | The source fake-rate constraint sweep improves target accuracy and fake-call bias; JPEG70, JPEG50, noise, and crop are relatively stable, while blur, resize, and screenshot-style roundtrips expose the next robustness gap. |
+| source_thresholding_improves_decisions | Source-aware operating-point selection can turn strong but biased reverse-transfer ranking into better binary decisions. | DFRWS operational triage panel; WIFS/DFF calibration and utility section. | ready_with_caveat | ms_to_ishu_branch_dropout_auc,ms_to_ishu_score_fusion_all6_temp_balanced,ms_to_ishu_source_cap_accuracy,ms_to_ishu_source_utility_cap_0p48,ms_to_ishu_source_holdout_mean_utility_cap_0p48,ms_to_ishu_source_holdout_tuned_fusion,ms_to_ishu_tuned_fusion_constraint_sweep_best,ms_to_ishu_tuned_fusion_jpeg70,ms_to_ishu_tuned_fusion_blur1,ms_to_ishu_tuned_fusion_resize_half,ms_to_ishu_tuned_fusion_crop85,ms_to_ishu_tuned_fusion_jpeg50,ms_to_ishu_tuned_fusion_noise3,ms_to_ishu_tuned_fusion_screenshot | ms_to_ishu_branch_dropout_auc (Reverse all-branch dropout fusion: acc=0.6520, AUC=0.8406, Brier=0.3057, ECE=0.3275, fake-rate=0.8158); ms_to_ishu_score_fusion_all6_temp_balanced (Reverse all-branch fusion + balanced temperature: acc=0.6579, AUC=0.8285, Brier=0.3067, ECE=0.3304, fake-rate=0.8099); ms_to_ishu_source_cap_accuracy (Reverse source-threshold capped fusion: acc=0.7222, AUC=0.8291, Brier=0.2188, ECE=0.2060, fake-rate=0.6228); ms_to_ishu_source_utility_cap_0p48 (Reverse capped source-utility model selection: acc=0.7193, AUC=0.8291, Brier=0.2188, ECE=0.2060, fake-rate=0.6199); ms_to_ishu_source_holdout_mean_utility_cap_0p48 (Reverse capped source-heldout utility selection: acc=0.7193, AUC=0.8291, Brier=0.2188, ECE=0.2060, fake-rate=0.6199); ms_to_ishu_source_holdout_tuned_fusion (Reverse source-heldout tuned fusion: acc=0.7339, AUC=0.8341, Brier=0.2748, ECE=0.2954, fake-rate=0.6813); ms_to_ishu_tuned_fusion_constraint_sweep_best (Reverse tuned-fusion constraint sweep best: acc=0.7632, AUC=0.8361, Brier=0.2851, ECE=0.3042, fake-rate=0.5175); ms_to_ishu_tuned_fusion_jpeg70 (Reverse tuned-fusion JPEG70 robustness: acc=0.7661, AUC=0.8485, Brier=0.2599, ECE=0.2635, fake-rate=0.4678); ms_to_ishu_tuned_fusion_blur1 (Reverse tuned-fusion target-transform robustness (blur1): acc=0.7105, AUC=0.7872, Brier=0.3280, ECE=0.3450, fake-rate=0.5585); ms_to_ishu_tuned_fusion_resize_half (Reverse tuned-fusion target-transform robustness (resize_half): acc=0.7164, AUC=0.7816, Brier=0.3249, ECE=0.3410, fake-rate=0.5526); ms_to_ishu_tuned_fusion_crop85 (Reverse tuned-fusion target-transform robustness (crop85): acc=0.7251, AUC=0.8227, Brier=0.2952, ECE=0.3187, fake-rate=0.5205); ms_to_ishu_tuned_fusion_jpeg50 (Reverse tuned-fusion target-transform robustness (jpeg50): acc=0.7515, AUC=0.8309, Brier=0.2486, ECE=0.2517, fake-rate=0.4240); ms_to_ishu_tuned_fusion_noise3 (Reverse tuned-fusion target-transform robustness (noise3): acc=0.7690, AUC=0.8704, Brier=0.2281, ECE=0.2412, fake-rate=0.4708); ms_to_ishu_tuned_fusion_screenshot (Reverse tuned-fusion target-transform robustness (screenshot): acc=0.7310, AUC=0.7965, Brier=0.3188, ECE=0.3392, fake-rate=0.5263) | reports/assets/publication_reverse_operating_points.png | The capped source-threshold result is an operating point, not a learned general solution. | Add native-resolution tiling, stronger social-media crops, and larger source splits before calling the cap frontier contest-ready. |
 | high_confidence_triage_is_viable | Strict source-heldout two-threshold triage can provide high-accuracy decisions on a subset of target images instead of forcing unreliable binary calls everywhere. | DFRWS poster workflow; DFF real-world processing discussion. | ready | ishu_to_ms_triage5_scp_fusion_all_foundation,ishu_to_ms_triage5_clip_standalone | ishu_to_ms_triage5_scp_fusion_all_foundation (SCP-Fusion + CLIP + DINOv2: coverage=0.3029, decided-acc=0.8733); ishu_to_ms_triage5_clip_standalone (Frozen CLIP ViT-B/32: coverage=0.4747, decided-acc=0.9261) | reports/assets/publication_triage_operating_points.png | Coverage is intentionally partial; this is an investigative triage mode, not full automation. | Add a second qualitative grid for triage failures or reverse-transfer misses. |
 | combined_v4_is_ablation_candidate | combined_v4 is promising as a richer physical/signal ablation, but it should not be promoted to the main claimed method until the larger repeated-seed and transfer checks are complete. | WIFS/DFF ablation roadmap; optional appendix if repeated-seed run lands. | needs_more_evidence |  | Tracked outside the generated core result table. | reports/combined_v4_medium_selectk_probe_2026_06_12.md | Current v4 evidence is bounded and interval-overlapping; it is not yet a paper headline. | Run full repeated-seed raw-v4/select-k60 Ishu and transfer ablations before submission. |

diff --git a/reports/reproducibility_checklist_2026_06_12.md b/reports/reproducibility_checklist_2026_06_12.md
@@ -53,9 +53,12 @@ This checklist is meant for reviewers, poster visitors, and collaborators who wa
 | MS COCOAI to Ishu source-heldout tuned fusion | `reports/ms_cocoai_to_ishu_source_holdout_tuned_fusion_2026_06_13.md` |
 | MS COCOAI to Ishu tuned-fusion constraint sweep | `reports/ms_cocoai_to_ishu_tuned_fusion_constraint_sweep_2026_06_13.md` |
 | MS COCOAI to Ishu tuned-fusion JPEG70 robustness | `reports/ms_cocoai_to_ishu_tuned_fusion_jpeg70_robustness_2026_06_13.md` |
+| MS COCOAI to Ishu tuned-fusion JPEG50 robustness | `reports/ms_cocoai_to_ishu_tuned_fusion_jpeg50_robustness_2026_06_13.md` |
 | MS COCOAI to Ishu tuned-fusion blur robustness | `reports/ms_cocoai_to_ishu_tuned_fusion_blur1_robustness_2026_06_13.md` |
 | MS COCOAI to Ishu tuned-fusion resize robustness | `reports/ms_cocoai_to_ishu_tuned_fusion_resize_half_robustness_2026_06_13.md` |
 | MS COCOAI to Ishu tuned-fusion crop robustness | `reports/ms_cocoai_to_ishu_tuned_fusion_crop85_robustness_2026_06_13.md` |
+| MS COCOAI to Ishu tuned-fusion noise robustness | `reports/ms_cocoai_to_ishu_tuned_fusion_noise3_robustness_2026_06_13.md` |
+| MS COCOAI to Ishu tuned-fusion screenshot robustness | `reports/ms_cocoai_to_ishu_tuned_fusion_screenshot_robustness_2026_06_13.md` |
 | Ishu to MS threshold objective sensitivity | `reports/ishu_to_ms_threshold_objective_sweep_2026_06_13.md` |
 | SCP-Fusion branch-dropout probe | `reports/score_fusion_branch_dropout_probe_2026_06_12.md` |
 | SCP-Fusion source-calibration probe | `reports/score_fusion_source_calibration_probe_2026_06_13.md` |
@@ -143,7 +146,7 @@ python scripts\build_claim_evidence_matrix.py --out-dir reports\assets
 - Leave-one-generator-out source utility reaches the same conclusion: source-heldout utility alone still selects over-firing fusion heads, while the 0.48 source fake-rate cap recovers 0.7193 accuracy / 0.8291 AUC.
 - Source-heldout tuned fusion is the first training-side constrained utility win: 0.7339 accuracy / 0.8341 AUC / 0.2748 Brier on MS-COCOAI-to-Ishu, with remaining target fake-call bias at 0.6813.
 - Sweeping tuned-fusion source fake-rate caps gives the best reverse operating point so far: cap 0.40 reaches 0.7632 accuracy / 0.8361 AUC and cuts the target fake-call rate to 0.5175.
-- The tuned-fusion cap_0p4 operating point is stable under JPEG70 target recompression at 0.7661 accuracy / 0.8485 AUC, weaker under blur1 at 0.7105 / 0.7872 and resize_half at 0.7164 / 0.7816, and partly recovers under crop85 at 0.7251 / 0.8227.
+- The tuned-fusion cap_0p4 operating point is stable under JPEG70 target recompression at 0.7661 accuracy / 0.8485 AUC, JPEG50 at 0.7515 / 0.8309, and noise3 at 0.7690 / 0.8704; it is weaker under blur1 at 0.7105 / 0.7872, resize_half at 0.7164 / 0.7816, crop85 at 0.7251 / 0.8227, and screenshot-style roundtrip at 0.7310 / 0.7965.
 - The opposite-direction Ishu-to-MS threshold objective sweep improves all-foundation SCP-Fusion accuracy from 0.6163 to 0.6470 on saved scores, but still under-calls generated images with a 0.1863 target fake-call rate.
 - All-foundation SCP-Fusion with CLIP and DINOv2 reaches 0.7995 transfer AUC, improving the fusion family while still trailing standalone CLIP.
 - SCP-Fusion branch dropout is implemented with coefficient export, but the first probe is negative/mixed: default accuracy is essentially flat while AUC/Brier/ECE worsen.